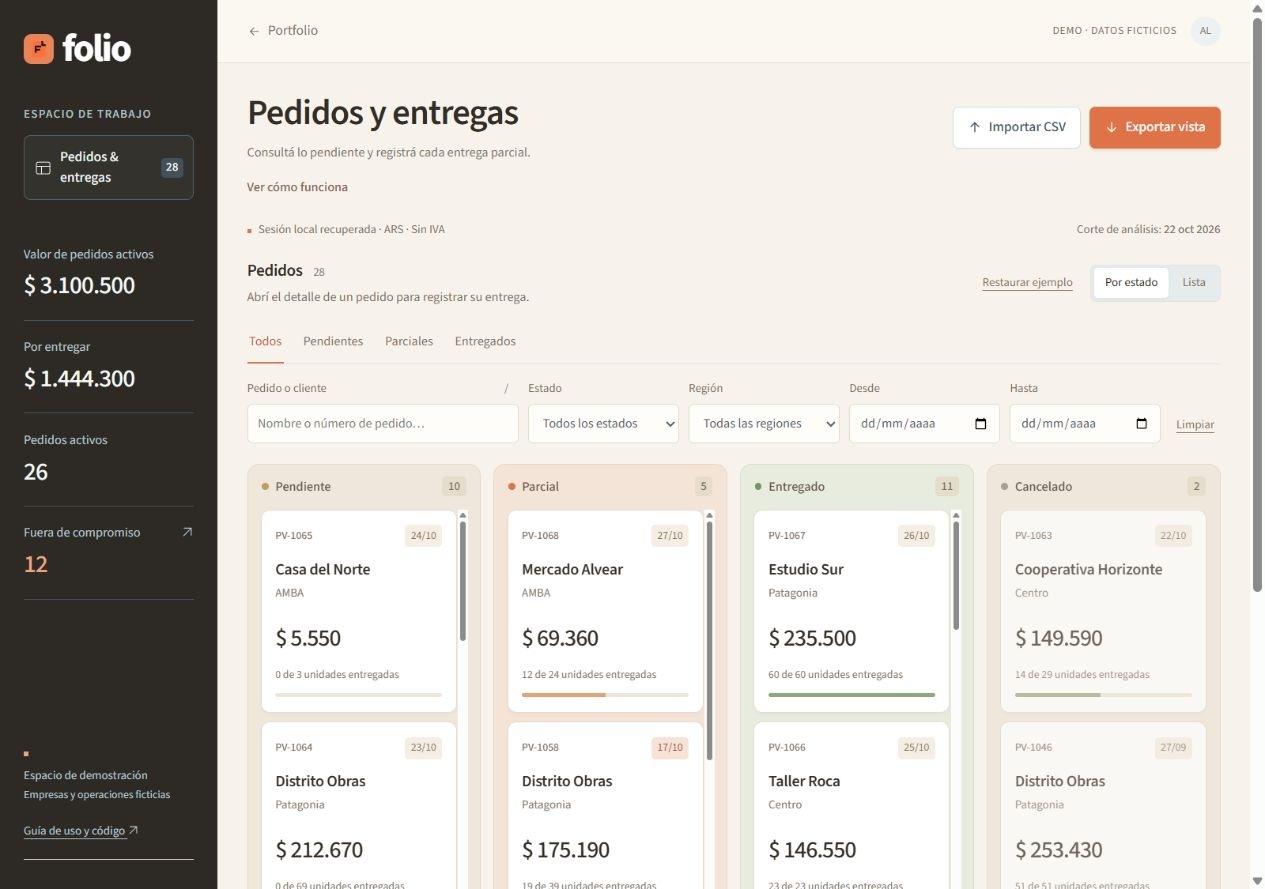
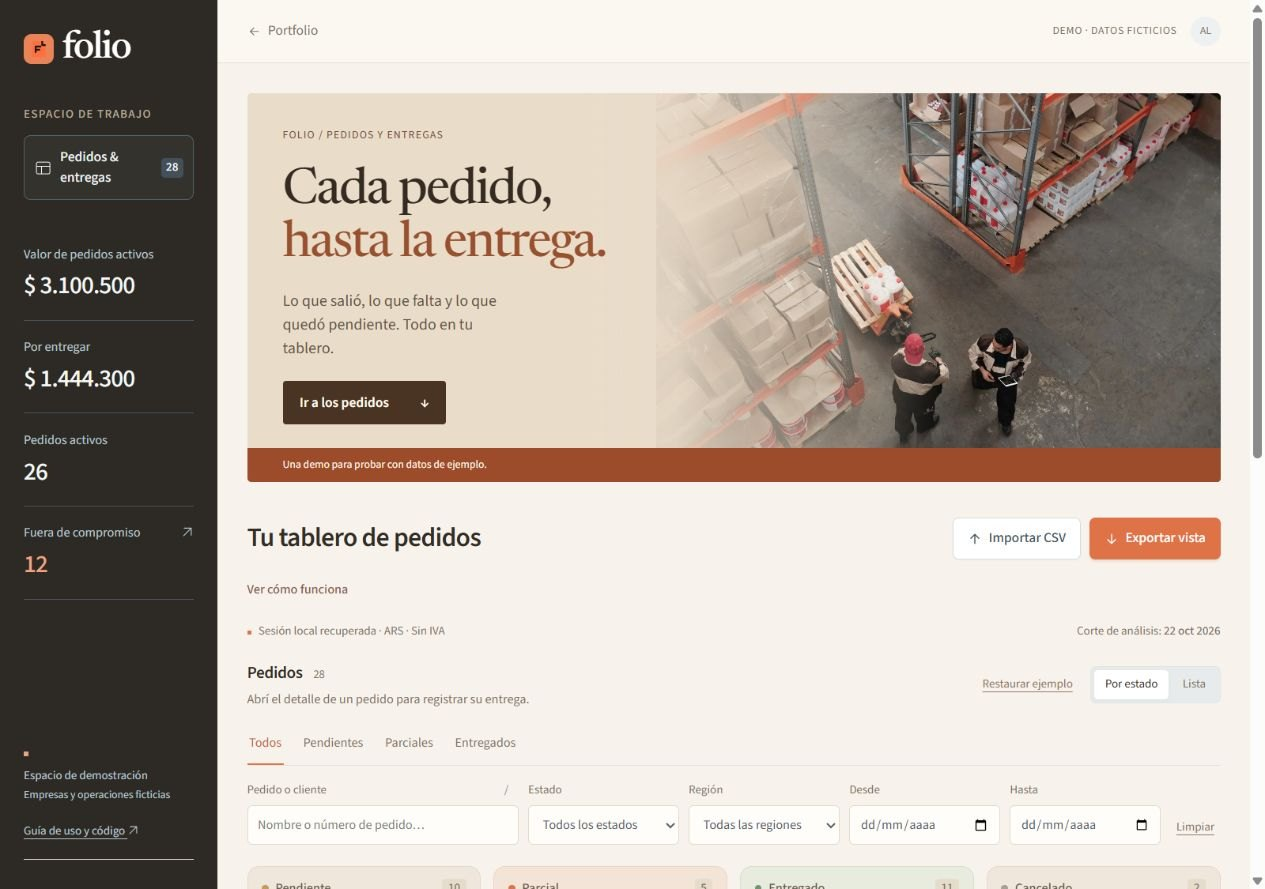
Improve Folio cover and responsive workspace

diff --git a/cover.css b/cover.css
@@ -1,0 +1,236 @@
+@font-face {
+  font-family: Newsreader;
+  src: url('assets/newsreader.ttf') format('truetype');
+  font-weight: 200 800;
+  font-display: swap;
+}
+.logo {
+  font-family: Newsreader, Georgia, serif;
+  font-weight: 500;
+  letter-spacing: -0.04em;
+}
+.dispatch-cover {
+  position: relative;
+  isolation: isolate;
+  min-height: 360px;
+  overflow: hidden;
+  border-radius: 4px;
+  margin: 0 0 36px;
+  background: #e9dcc9;
+}
+.dispatch-cover > img {
+  position: absolute;
+  inset: 0 0 0 auto;
+  width: 58%;
+  height: 100%;
+  object-fit: cover;
+  object-position: 45% center;
+  z-index: -2;
+}
+.dispatch-cover::after {
+  content: '';
+  position: absolute;
+  inset: 0;
+  z-index: -1;
+  background: linear-gradient(90deg, #e9dcc9 35%, #e9dcc9ed 44%, #e9dcc900 72%);
+}
+.dispatch-intro {
+  max-width: 61%;
+  padding: 35px 36px 58px;
+}
+.dispatch-label {
+  font-size: 11px;
+  letter-spacing: 0.09em;
+  color: #734c36;
+  margin: 0 0 22px;
+}
+.dispatch-intro h1 {
+  font:
+    450 clamp(35px, 4vw, 57px)/1.04 Newsreader,
+    Georgia,
+    serif;
+  letter-spacing: -0.035em;
+  color: #352b22;
+  margin: 0;
+}
+.dispatch-intro h1 em {
+  font-style: normal;
+  color: #99502e;
+}
+.dispatch-intro > p:not(.dispatch-label) {
+  max-width: 29ch;
+  font-size: 16px;
+  line-height: 1.5;
+  margin: 19px 0 21px;
+  color: #665344;
+}
+.dispatch-enter {
+  display: inline-flex;
+  align-items: center;
+  gap: 32px;
+  min-height: 44px;
+  padding: 9px 17px;
+  color: #fff9ed;
+  background: #493323;
+  border-radius: 3px;
+  font-size: 14px;
+  font-weight: 600;
+  text-decoration: none;
+}
+.dispatch-enter:hover {
+  background: #6a482f;
+}
+.dispatch-caption {
+  position: absolute;
+  bottom: 0;
+  left: 0;
+  right: 0;
+  padding: 9px 36px;
+  background: #9c4c2a;
+  color: #fff5e6;
+  font-size: 11px;
+}
+.page-head h2 {
+  font: 600 27px/1.2 var(--ui);
+  letter-spacing: -0.025em;
+  margin: 0;
+}
+.page-head .overline,
+.page-head .subtitle {
+  display: none;
+}
+#orders-title {
+  scroll-margin-top: 30px;
+}
+.app-explainer {
+  margin-top: 16px;
+}
+.app-explainer > div {
+  display: none;
+}
+.app-explainer {
+  justify-content: flex-start;
+  padding: 0;
+  border: 0;
+  background: none;
+}
+.sidebar-label {
+  color: #baaa96;
+}
+.project-attribution {
+  color: #c1b3a2;
+}
+@media (min-width: 1700px) {
+  .dispatch-cover {
+    min-height: 410px;
+  }
+  .dispatch-intro {
+    padding-top: 48px;
+  }
+}
+@media (max-width: 1050px) {
+  .dispatch-intro {
+    padding-left: 24px;
+    max-width: 70%;
+  }
+  .dispatch-intro h1 {
+    font-size: 42px;
+  }
+  .dispatch-caption {
+    padding-left: 24px;
+  }
+}
+@media (max-width: 680px) {
+  .dispatch-cover {
+    min-height: 0;
+    margin-bottom: 26px;
+  }
+  .dispatch-cover > img {
+    position: relative;
+    display: block;
+    width: 100%;
+    height: 160px;
+    object-position: center 45%;
+  }
+  .dispatch-cover::after {
+    display: none;
+  }
+  .dispatch-intro {
+    max-width: none;
+    padding: 25px 22px;
+  }
+  .dispatch-intro h1 {
+    font-size: clamp(34px, 8vw, 46px);
+  }
+  .dispatch-label {
+    margin-bottom: 17px;
+    font-size: 10px;
+  }
+  .dispatch-intro > p:not(.dispatch-label) {
+    max-width: 34ch;
+    margin: 15px 0 20px;
+  }
+  .dispatch-caption {
+    position: static;
+    display: block;
+    padding: 10px 22px;
+  }
+  .page-head h2 {
+    font-size: 25px;
+  }
+  .page-actions {
+    width: 100%;
+  }
+  .page-actions .button {
+    flex: 1;
+    justify-content: center;
+  }
+}
+@media (max-width: 1050px) {
+  main > .metrics {
+    display: grid;
+    grid-template-columns: repeat(2, minmax(0, 1fr));
+    gap: 0 18px;
+    padding: 9px 17px;
+    margin: 20px 0;
+    background: #eee5d8;
+    border: 1px solid #dfd2c1;
+    border-radius: 4px;
+  }
+  main > .metrics article,
+  main > .metrics > button {
+    min-width: 0;
+    padding: 13px 0;
+    margin: 0;
+    border: 0;
+    border-bottom: 1px solid #d8cbb9;
+    text-align: left;
+    color: #4a3c2d;
+    background: transparent;
+  }
+  main > .metrics article:nth-child(3),
+  main > .metrics > button {
+    border-bottom: 0;
+  }
+  main > .metrics p {
+    font-size: 11px;
+    margin: 0 0 5px;
+  }
+  main > .metrics strong {
+    font: 600 23px/1.2 var(--ui);
+    color: #493323;
+  }
+  main > .metrics .metric-alert strong {
+    color: #a24d2b;
+  }
+  main > .metrics small {
+    display: none;
+  }
+  main > .metrics .metric-value {
+    width: 100%;
+  }
+  .sidebar {
+    padding-top: 15px;
+    padding-bottom: 15px;
+  }
+}

diff --git a/index.html b/index.html
@@ -16,12 +16,13 @@
     />
     <link rel="icon" href="assets/brand-mark.svg" type="image/svg+xml" />
     <link rel="preload" href="assets/source-sans-3.ttf" as="font" type="font/ttf" crossorigin />
-    <link rel="stylesheet" href="style.css?v=20261102-life-1" />
-    <link rel="stylesheet" href="tutorial.css?v=20261102-life-1" />
-    <script type="module" src="src/app.js?v=20261102-life-1"></script>
-    <script type="module" src="src/tutorial.js?v=20261102-life-1"></script>
-    <link rel="stylesheet" href="video.css?v=20261102-life-1" />
-    <link rel="stylesheet" href="interface.css?v=20261102-life-1" />
+    <link rel="stylesheet" href="style.css?v=20261102-photo-1" />
+    <link rel="stylesheet" href="tutorial.css?v=20261102-photo-1" />
+    <script type="module" src="src/app.js?v=20261102-photo-1"></script>
+    <script type="module" src="src/tutorial.js?v=20261102-photo-1"></script>
+    <link rel="stylesheet" href="video.css?v=20261102-photo-1" />
+    <link rel="stylesheet" href="interface.css?v=20261102-photo-1" />
+    <link rel="stylesheet" href="cover.css?v=20261102-photo-1" />
   </head>
   <body>
     <a class="skip" href="#main">Saltar al contenido</a>
@@ -136,10 +137,30 @@
         </div>
       </header>
       <main id="main">
+        <section class="dispatch-cover" aria-labelledby="dispatch-title">
+          <img
+            src="assets/dispatch-1600.webp"
+            srcset="assets/dispatch-800.webp 800w, assets/dispatch-1600.webp 1600w"
+            sizes="(max-width: 680px) 100vw, 60vw"
+            width="1600"
+            height="1067"
+            alt=""
+            decoding="async"
+          />
+          <div class="dispatch-intro">
+            <p class="dispatch-label">FOLIO / PEDIDOS Y ENTREGAS</p>
+            <h1 id="dispatch-title">Cada pedido,<br /><em>hasta la entrega.</em></h1>
+            <p>Lo que salió, lo que falta y lo que quedó pendiente. Todo en tu tablero.</p>
+            <a href="#orders-title" class="dispatch-enter"
+              >Ir a los pedidos <span aria-hidden="true">↓</span></a
+            >
+          </div>
+          <span class="dispatch-caption">Una demo para probar con datos de ejemplo.</span>
+        </section>
         <div class="page-head">
           <div>
             <p class="overline">FOLIO / SEGUIMIENTO DE PEDIDOS</p>
-            <h1>Pedidos y entregas</h1>
+            <h2>Tu tablero de pedidos</h2>
             <p class="subtitle">Consultá lo pendiente y registrá cada entrega parcial.</p>
           </div>
           <div class="page-actions">

diff --git a/src/workspace.js b/src/workspace.js
@@ -1,5 +1,14 @@
 /** Browser-only navigation and keyboard affordances, independent of order rules. */
 export function initWorkspace() {
+  const metrics = document.querySelector('.metrics');
+  const sidebarAnchor = document.querySelector('.project-attribution');
+  const compact = matchMedia('(max-width: 1050px)');
+  const placeSummary = () => {
+    if (compact.matches) document.querySelector('.page-head').after(metrics);
+    else sidebarAnchor.before(metrics);
+  };
+  placeSummary();
+  compact.addEventListener('change', placeSummary);
   const search = document.querySelector('#search');
   const returnLink = document.querySelector('.portfolio-return');
   if (location.pathname.includes('/demos/folio/')) returnLink.href = '../../#proyecto-folio';

diff --git a/src/app.js b/src/app.js
@@ -14,7 +14,7 @@ import {
   setDelivery,
 } from './domain.js';
 import { sampleOrders } from './sample.js';
-import { initWorkspace } from './workspace.js';
+import { initWorkspace } from './workspace.js?v=20261102-photo-1';
 initWorkspace();
 initVideoDemos();
 const $ = (selector) => document.querySelector(selector);

diff --git a/interface.css b/interface.css
@@ -640,7 +640,7 @@ footer {
     flex-wrap: wrap;
   }
 }
-@media (max-width: 760px) {
+@media (max-width: 1050px) {
   .sidebar {
     position: relative;
     width: 100%;

diff --git a/assets/PHOTOS.md b/assets/PHOTOS.md
@@ -1,0 +1,3 @@
+# Fotografía
+
+`dispatch-800.webp` y `dispatch-1600.webp`: Tiger Lily, [Men Working in a Warehouse](https://www.pexels.com/photo/men-working-in-a-warehouse-4481328/), publicada el 25 de mayo de 2020. [Licencia Pexels](https://www.pexels.com/license/). Adaptaciones: tamaño y compresión WebP. Es una fotografía de referencia; no muestra instalaciones o clientes del proyecto.
